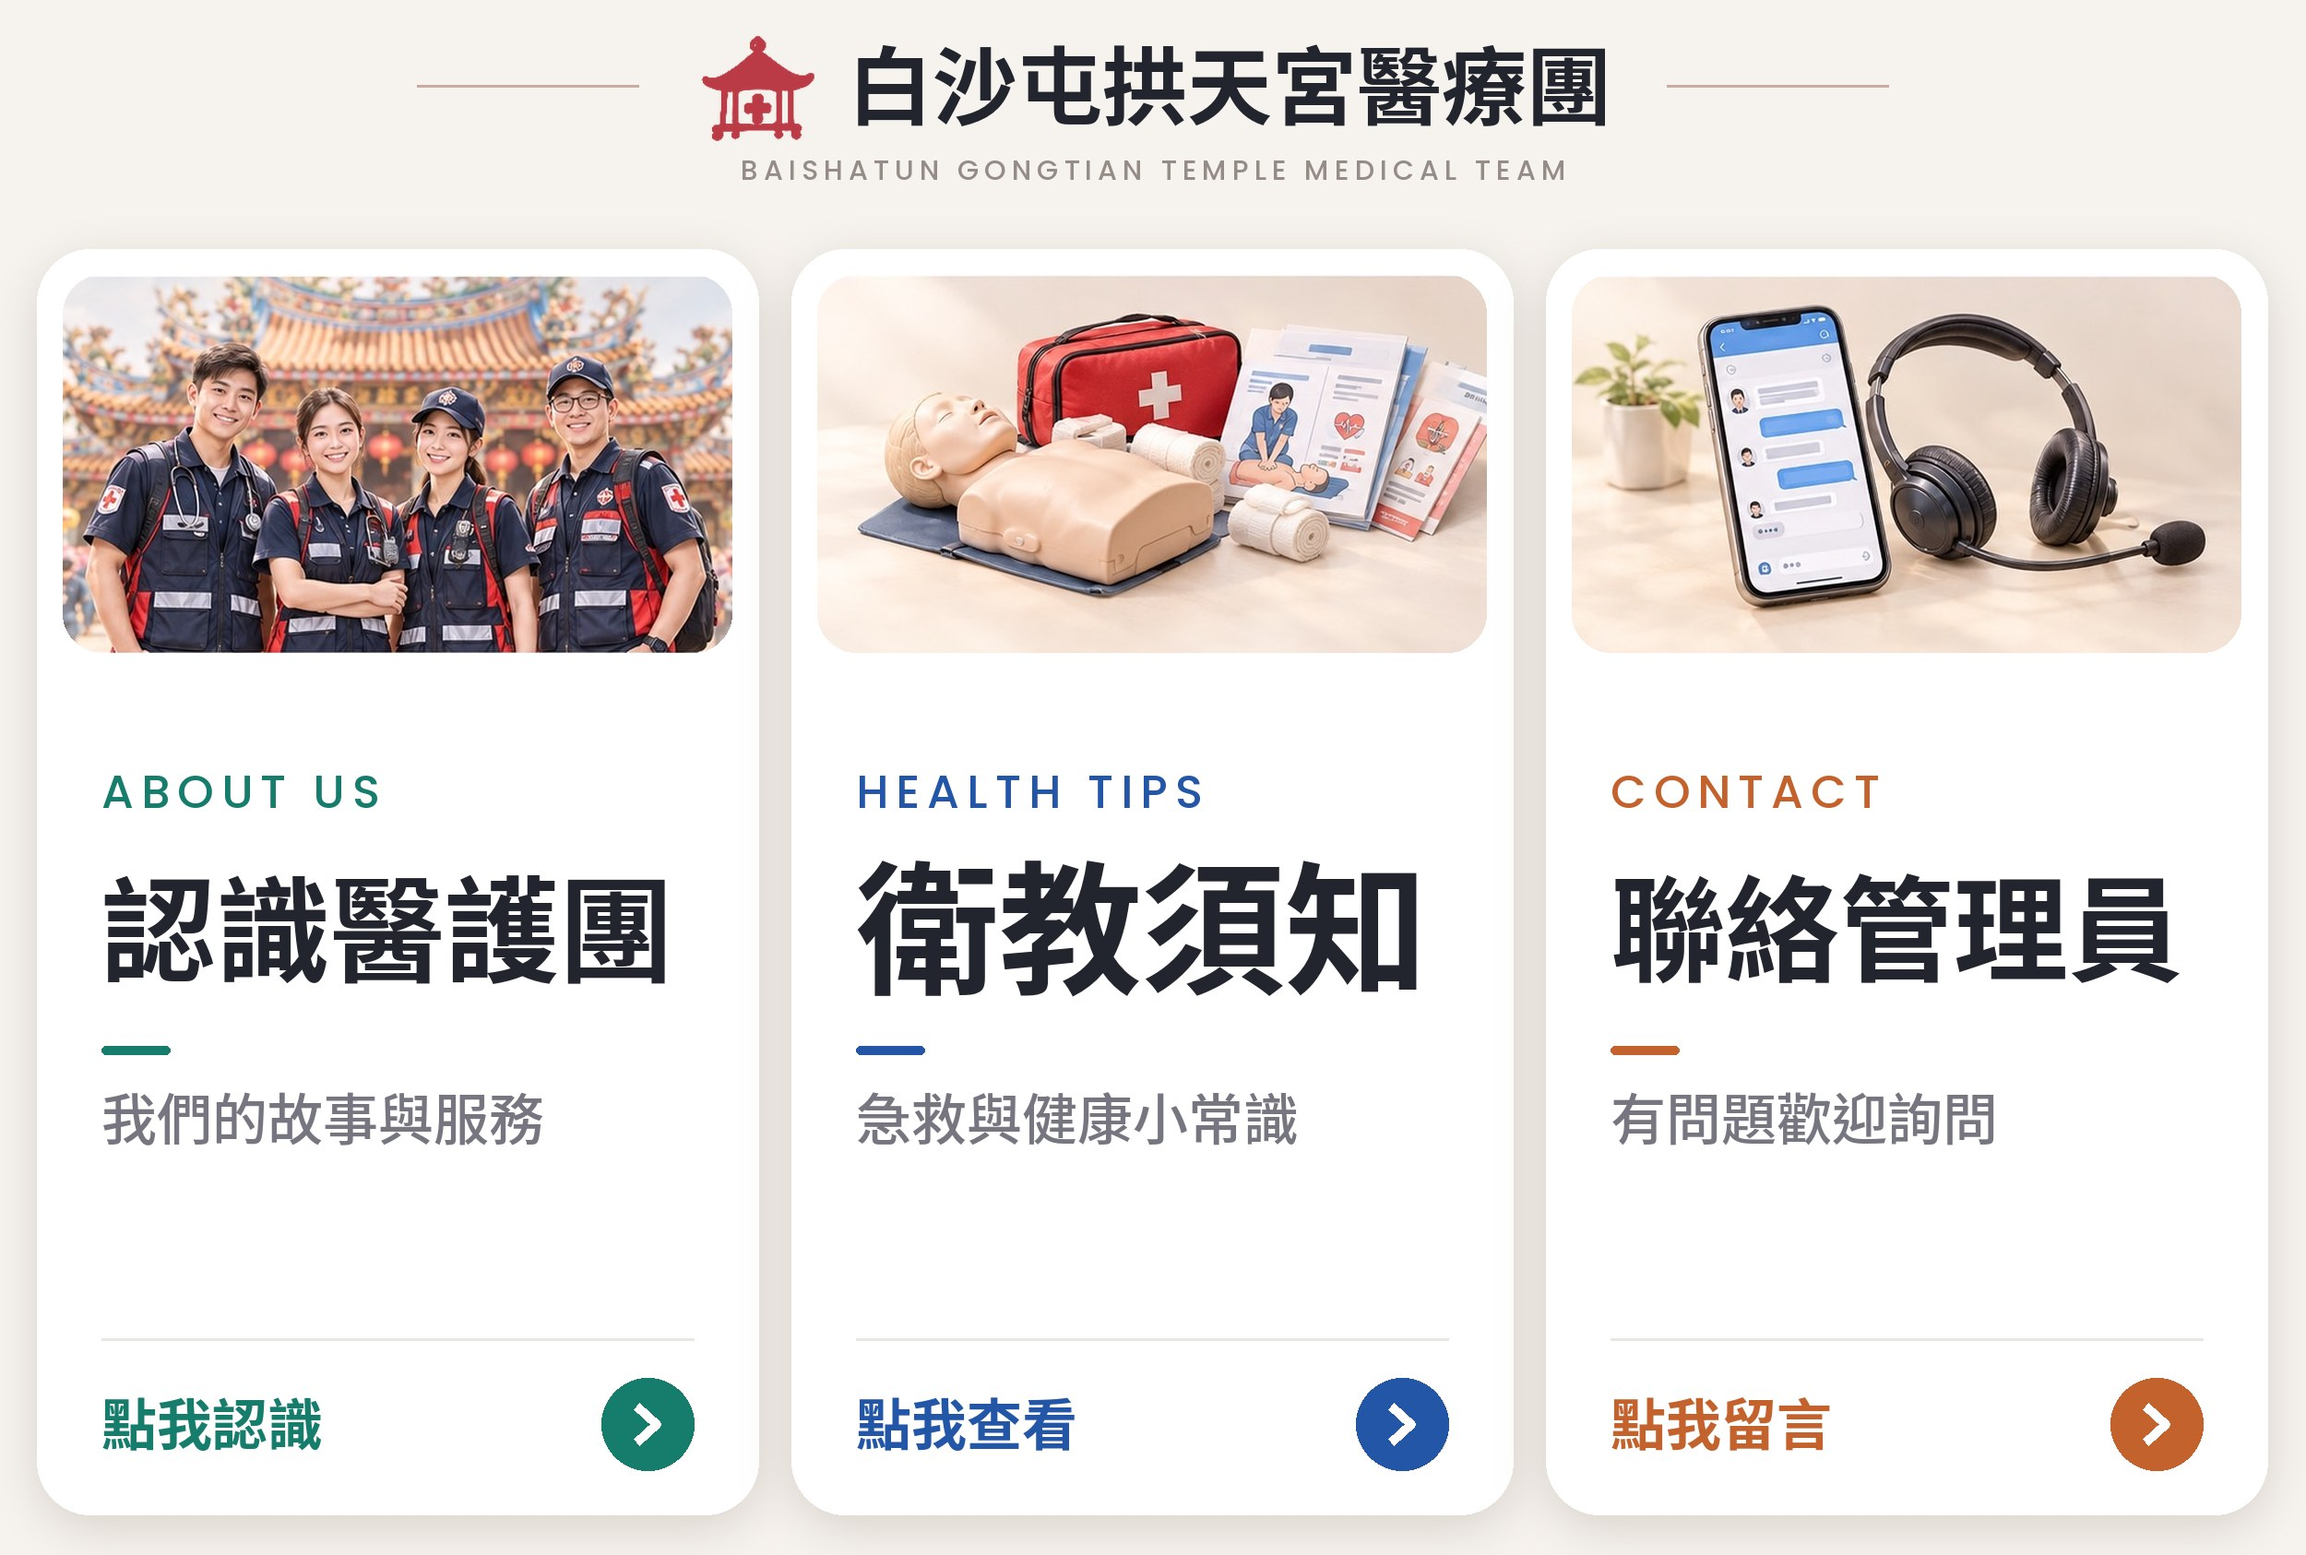
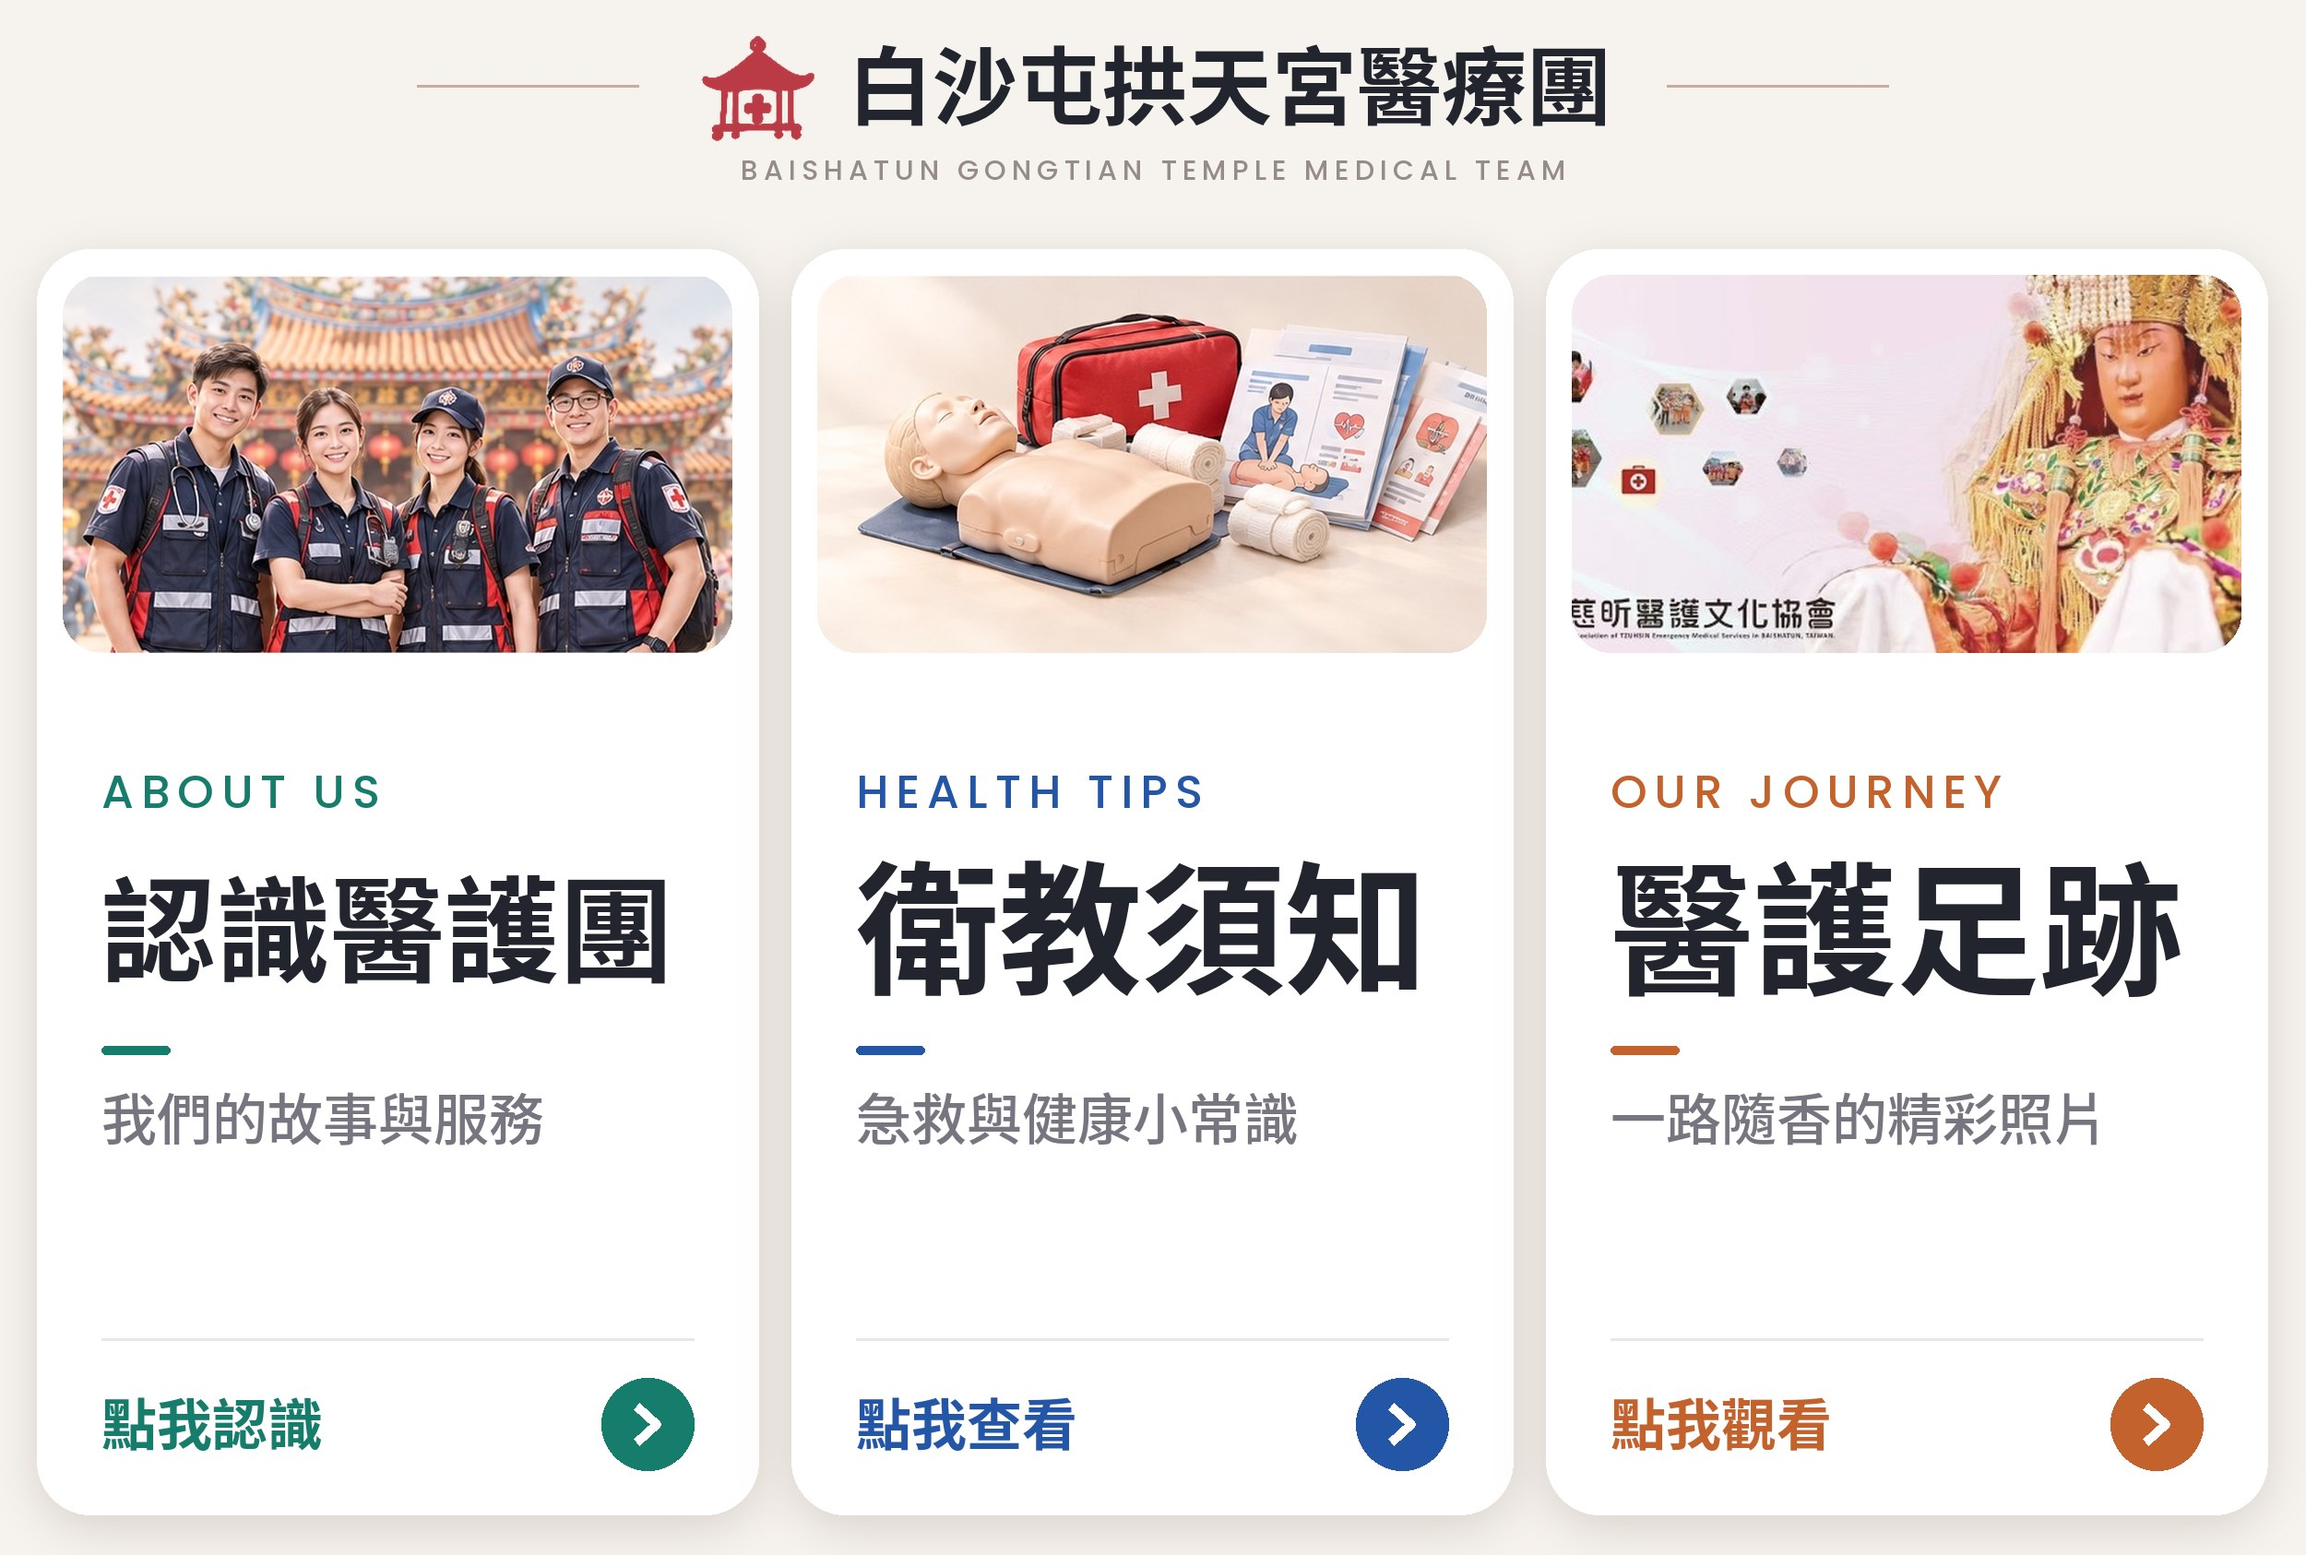
選單第 3 格：聯絡管理員 → 醫護足跡（照片），新增回覆卡片
Claude-Session: https://claude.ai/code/session_01UgnuMUR9BFixKJirFzAXJh

diff --git a/security/worker.js b/security/worker.js
@@ -127,7 +127,7 @@ const tabs = () => [
 const PUBLIC = [
   { type: 'message', label: '認識醫護團', text: '認識醫護團' },
   { type: 'message', label: '衛教須知', text: '衛教須知' },
-  { type: 'message', label: '聯絡管理員', text: '聯絡管理員' },
+  { type: 'message', label: '醫護足跡', text: '醫護足跡' },
 ];
 const MEMBER = [
   { type: 'uri', label: '會員中心', uri: LIFF('2011820105-x1KU6xLW') },
@@ -297,6 +297,26 @@ const EDU = [
     ] },
 ];
 const REPLIES = {
+  '醫護足跡': () => ({
+    type: 'flex', altText: '醫護足跡：一路隨香的精彩照片',
+    contents: {
+      type: 'bubble', size: 'giga',
+      hero: { type: 'image', url: SITE + '/richmenu/about-banner.jpg', size: 'full', aspectRatio: '1179:422', aspectMode: 'cover',
+        action: { type: 'uri', label: '照片', uri: FB_URL + 'photos' } },
+      body: { type: 'box', layout: 'vertical', paddingAll: '20px', contents: [
+        { type: 'text', text: 'OUR JOURNEY', size: 'xs', color: '#C4622E', weight: 'bold' },
+        { type: 'text', text: '醫護足跡', weight: 'bold', size: 'xxl', color: '#1f2430', margin: 'sm' },
+        { type: 'text', text: '一路隨香的精彩照片', size: 'sm', color: '#B68D40', weight: 'bold', margin: 'sm' },
+        { type: 'separator', margin: 'lg' },
+        { type: 'text', margin: 'lg', wrap: true, size: 'sm', color: '#4b5563',
+          text: '每一年跟著媽祖一步一腳印，救護、陪伴、守護每一位香燈腳。進香的點點滴滴，都記錄在我們的相簿裡。' },
+      ] },
+      footer: { type: 'box', layout: 'vertical', paddingAll: '14px', spacing: 'sm', contents: [
+        iconBtn('ic-fb.png', 'Facebook 相簿', '#1877F2', FB_URL + 'photos'),
+        iconBtn('ic-ig.png', 'Instagram', { type: 'linearGradient', angle: '90deg', startColor: '#F58529', centerColor: '#DD2A7B', endColor: '#8134AF' }, IG_URL),
+      ] },
+    },
+  }),
   '衛教須知': () => ({
     type: 'flex', altText: '衛教須知：中暑、水泡、抽筋、曬傷、扭傷，往左滑看更多',
     contents: { type: 'carousel', contents: EDU.map(eduCard) },

diff --git a/member/index.html b/member/index.html
@@ -2738,7 +2738,7 @@
   // 發佈 LINE 圖文選單（只有最高管理員）：建立訪客／團員兩種選單，再把所有已開通的人換成團員選單
   $('btn-richmenu').onclick = async () => {
     if (!user || user.role !== 'admin') return toast('只有最高管理員（全部系統）可以發佈');
-    const ok = await dialog({ title: '發佈 LINE 圖文選單？', msg: '會建立 LINE 圖文選單：\n・一般民眾：認識醫護團／衛教須知／聯絡管理員\n・團員：兩頁可左右切換\n　「團員專區」會員中心／救護紀錄表／倉儲管理\n　「一般資訊」同一般民眾那頁\n\n之後審核、停權、踢出都會自動切換。', okText: '發佈' });
+    const ok = await dialog({ title: '發佈 LINE 圖文選單？', msg: '會建立 LINE 圖文選單：\n・一般民眾：認識醫護團／衛教須知／醫護足跡\n・團員：兩頁可左右切換\n　「團員專區」會員中心／救護紀錄表／倉儲管理\n　「一般資訊」同一般民眾那頁\n\n之後審核、停權、踢出都會自動切換。', okText: '發佈' });
     if (!ok) return;
     const btn = $('btn-richmenu'); btn.disabled = true; btn.textContent = '發佈中…';
     try {
